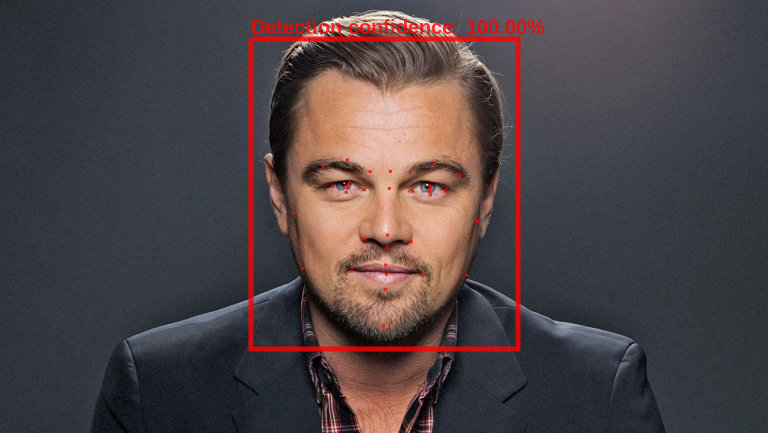
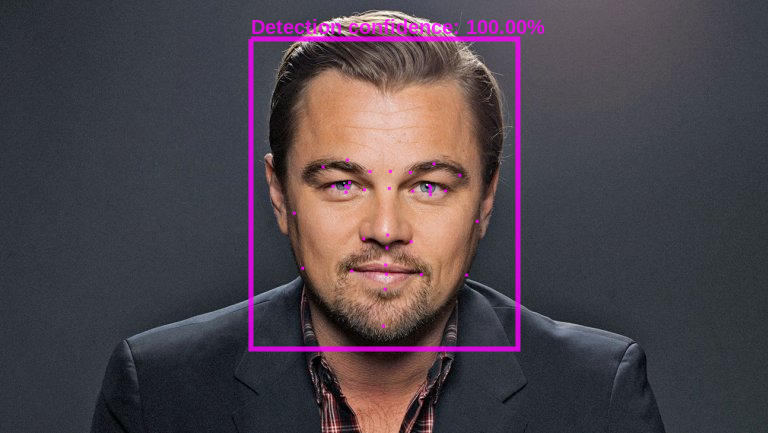
update readme.md

Changed region(s): [[0.3125, 0.03, 0.7188, 0.8106], [0.5312, 0.4203, 0.5625, 0.4503], [0.4375, 0.4203, 0.4688, 0.4503]]

diff --git a/scripts/landmarkDetection.js b/scripts/landmarkDetection.js
@@ -19,9 +19,9 @@ function highlightFaces(inputFile, outputFile, faces, callback) {
     context.drawImage(img, 0, 0, img.width, img.height);
 
     // Now draw boxes around all the faces
-    context.strokeStyle = 'rgba(255,0,0,0.8)';
+    context.strokeStyle = 'rgba(255, 0, 255, 0.8)';
     context.lineWidth = '5';
-    context.fillStyle = 'rgba(255,0,0,0.8)';
+    context.fillStyle = 'rgba(255, 0, 255, 0.8)';
 
     faces.forEach(face => {
       context.beginPath();
@@ -47,9 +47,10 @@ function highlightFaces(inputFile, outputFile, faces, callback) {
           let pointX=landmark.position.x;
           let pointY=landmark.position.y;
           context.fillRect(pointX,pointY,3,3);
-          //context.font = 'bold 10px arial';
-          //context.textAlign = 'center';
-          //context.fillText(landmark.type,pointX,pointY);
+/*        context.font = 'bold 10px arial';
+          context.textAlign = 'center';
+          context.fillText(landmark.type,pointX,pointY);
+*/
         }
       });
       
@@ -91,7 +92,7 @@ function detectFaces(inputFile, callback){
 function main(callback){
     callback('Running...');
     var inputFile = './images/landmark.jpg';
-    var outputFile = './output_images/landmark_detail.png'
+    var outputFile = './output_images/landmark.png'
     // Detecting the faces
     detectFaces(inputFile, (err, faces) => {
         if (err){

diff --git a/readme.md b/readme.md
@@ -94,9 +94,11 @@ businesspers
 If you want to take a look at the detail about the landmark point, you can go to line 50 and uncomment these lines.
 
 ```javascript
-  //context.font = 'bold 10px arial';
-  //context.textAlign = 'center';
-  //context.fillText(landmark.type,pointX,pointY);
+/*
+    context.font = 'bold 10px arial';
+    context.textAlign = 'center';
+    context.fillText(landmark.type,pointX,pointY);
+*/
 ```
 
 <img src="https://github.com/Aleadinglight/Google-cloud-vision-api/blob/master/output_images/landmark_detail.png" width="400">
@@ -107,6 +109,6 @@ If you want to take a look at the detail about the landmark point, you can go to
 
 The other texts is highlighted:
 
-<img src="https://github.com/Aleadinglight/Google-cloud-vision-api/blob/master/output_images/text2.png" width="600">
+<img src="https://github.com/Aleadinglight/Google-cloud-vision-api/blob/master/output_images/text2.png" width="400">
 
 
